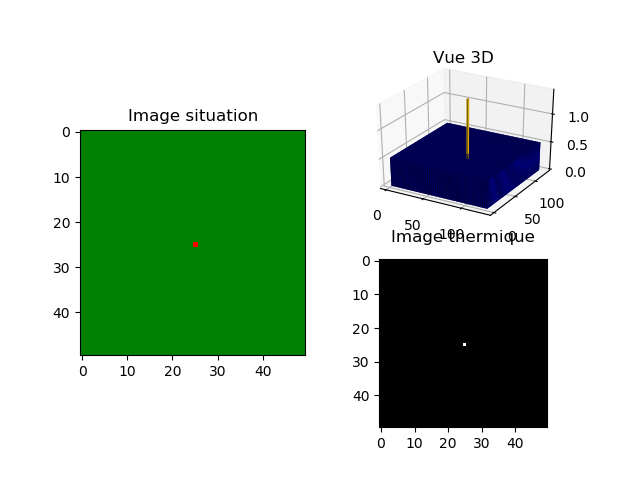
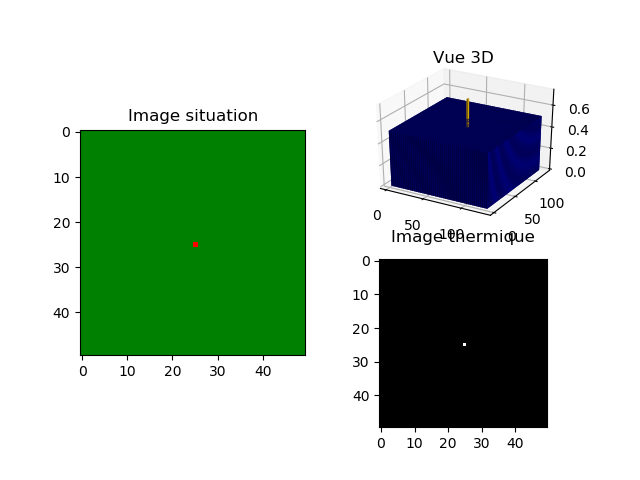
Started to implement topography

Changed region(s): [[0.5938, 0.1875, 0.9375, 0.375]]

diff --git a/radiation.py b/radiation.py
@@ -4,7 +4,7 @@ import matplotlib as plt
 from tools import *
 
 
-def sender(Map_hauteur, i, j, Map_energie, R, dteta, dh, nphoton, hauteur_cellule_combustible, debug=True, dprint=True):
+def sender(Map_hauteur, i, j, Map_energie, parameters, debug=True, dprint=True):
     """
    @input:  Matrix Map_hauteur | Matrice des hauteur de flamme
             Matrix Map_energie | Matrice des energies a émettre
@@ -41,21 +41,23 @@ def sender(Map_hauteur, i, j, Map_energie, R, dteta, dh, nphoton, hauteur_cellul
 
    @utilite: Fonction utilise par reception_matrix
    """
-    l = len(Map_hauteur)
+    l = parameters.Taille_grille
 
     # On récupère les infos sur la case qui va emettre
     energie = Map_hauteur[i, j]
-    nombre_subdivision_h = int(Map_hauteur[i, j]/dh)
+    nombre_subdivision_h = int(Map_hauteur[i, j]/parameters.dh)
 
     i = l-i-1  # On modife le i pour qu'il corresponde au schéma ci dessus
 
     # On calcule des valeurs pour notre ds et l'énergie élémentaire d'un photon
-    nombre_subdivision_teta = int((2*np.pi)/dteta)
-    photon_energie = energie/(nombre_subdivision_h*nombre_subdivision_teta*nphoton)
+    nombre_subdivision_teta = int((2*np.pi)/parameters.dteta)
+    photon_energie = energie/(nombre_subdivision_h*nombre_subdivision_teta*parameters.nphoton)
     result_matrix = np.zeros(shape=(l, l))
     if dprint:
         print("------------------------------")
         print("Nombre de surfaces elementaires considerees {}".format(str(nombre_subdivision_h*nombre_subdivision_teta)))
+
+
     for u in range(nombre_subdivision_h):
         if u == int(nombre_subdivision_h/4) and dprint:
             print("25% ..")
@@ -67,7 +69,7 @@ def sender(Map_hauteur, i, j, Map_energie, R, dteta, dh, nphoton, hauteur_cellul
             xx = []
             yy = []
         for v in range(nombre_subdivision_teta):
-            hauteur_envoi = dh*(u+1)
+            hauteur_envoi = parameters.topography[i][j]+dh*(u+1)  # TODO Crochets pas sur du tout
             tetads = dteta*v
             depart_x = (j*2*R + R) + R*np.cos(tetads)
             depart_y = (i*2*R + R) + R*np.sin(tetads)
@@ -78,7 +80,7 @@ def sender(Map_hauteur, i, j, Map_energie, R, dteta, dh, nphoton, hauteur_cellul
             uu = []
             vv = []
 
-            for counter in range(nphoton):
+            for counter in range(parameters.nphoton):
 
                 # On genere deux angles randoms/ rand_alpha doit etre genere de maniere particuliere
                 rand_phi = 2*np.arcsin(np.sqrt(random.random()))
@@ -162,7 +164,7 @@ def sender(Map_hauteur, i, j, Map_energie, R, dteta, dh, nphoton, hauteur_cellul
                     if hauteur_cylindre == 0:
                         iscombustible = True
                         hauteur_cylindre = hauteur_cellule_combustible
-                    intersec, distance = intersection(point_depart_photon, vecteur_photon, coordonne_cylindre, rayon_cylindre, hauteur_cylindre)
+                    intersec, distance = intersection(point_depart_photon, vecteur_photon, coordonne_cylindre, rayon_cylindre, hauteur_cylindre,parameters.topography)
                     if intersec:
                         distance_parcourue_jusque_intersection = distance
                         if not(iscombustible):
@@ -182,18 +184,11 @@ def sender(Map_hauteur, i, j, Map_energie, R, dteta, dh, nphoton, hauteur_cellul
  
     return result_matrix
 
-def create_mat(i,j,taille,w):
-    em_ij = np.zeros(shape=(taille, taille))
-    for u in range(taille):
-        for v in range(taille):
-            if taille//2+abs(i-u) >0 and  taille//2+abs(i-u) < taille and taille//2+abs(j-v) >0 and taille//2+abs(j-v) <taille and abs(i-u)<10 and abs(j-v) <10:
-                em_ij[u,v]=w[taille//2+abs(i-u),taille//2+abs(j-v)]
-    return em_ij
 
-def reception_matrix(para,rad, Map_hauteur, Map_energie,last,fires,radgrids):
+
+def reception_matrix(para,rad, Map_energie):
     """
    @input:  Object para | Objet contenant les parametres
-            Matrix Map_hauteur | Matrice des hauteurs de flamme
             Matrix Map_energie | Matrice des energies emises
 
    @output: Matrix Matrice des energies recues pour toutes les cellules
@@ -204,25 +199,13 @@ def reception_matrix(para,rad, Map_hauteur, Map_energie,last,fires,radgrids):
 
    """
     
-    l = len(Map_hauteur)
-    traite =[]
-    result_matrix = np.zeros(shape=(l, l))
+    result_matrix = np.zeros(shape=(para.Taille_grille, para.Taille_grille))
     for i in range(0, l):
         for j in range(0, l):
-            if Map_hauteur[i, j] != 0:
-                traite.append((i,j))
-                if (i,j) in fires:
-                    pass
-               
-                k = int((Map_hauteur[i, j]-para.Init_h)//para.Espacement_H)
-                mat = create_mat(i,j,l, ((rad[k][()])[(l//2, l//2)])*Map_energie[i][j])
-                radgrids[i,j] = mat
+                mat = rad[i][j]*Map_energie[i][j])
                 result_matrix = np.add(result_matrix,mat)
-    for (i,j) in fires:
-        if not((i,j) in traite):
-            result_matrix = np.subtract(result_matrix,radgrids[i,j])
-            fires.remove((i,j))
-    return result_matrix,traite,radgrids
+
+    return result_matrix
 
 
 def test_sender():

diff --git a/precalculus.py b/precalculus.py
@@ -1,0 +1,86 @@
+# -*- coding: utf-8 -*-
+"""
+Created on Mon Apr 15 19:23:23 2019
+
+"""
+import multiprocessing 
+from multiprocessing import Process, current_process, Queue, Array
+import numpy as np
+import random
+import datetime
+from tqdm import tqdm
+import sys
+import traceback
+from radiation import *
+from param import *
+
+
+def worker(part):
+    parameters= Param()
+    dteta =  parameters.dteta
+    dh = parameters.dh
+    nphoton = parameters.nphoton
+    R = parameters.D/2
+    h = parameters.hcom
+    taille =parameters.Taille_grille
+    premierehauteur = parameters.Init_h
+    espacement = parameters.Espacement_H
+
+    hauteur_flamme= round(premierehauteur+espacement*part,1)
+    print("Worker {} , started ".format(hauteur_flamme))
+
+    Map_energie = np.zeros(shape=(taille,taille))+1
+    Map_hauteur = np.zeros(shape=(taille, taille))
+    Map_hauteur[taille//2][taille//2] = hauteur_flamme
+
+    d= {}
+    if h !=0:
+        w=sender(Map_hauteur, taille//2, taille//2, Map_energie, R, dteta, dh, nphoton,h,debug=False,dprint=False)
+        for i in range(taille):
+            for j in range(taille):
+                em_ij = np.zeros(shape=(taille, taille))
+                for u in range(taille):
+                    for v in range(taille):
+                        if taille//2+abs(i-u) >0 and  taille//2+abs(i-u) < taille and taille//2+abs(j-v) >0 and taille//2+abs(j-v) <taille:
+                            em_ij[u,v]=w[taille//2+abs(i-u),taille//2+abs(j-v)]
+                d[(i,j)] = em_ij
+    else:
+        d={}
+    print("\n")
+    print("Worker {} , finished \n".format(hauteur_flamme)) 
+    print("\n")	
+    np.save('{}_50x50.npy'.format(part),d)         
+
+
+parameters= Param()
+if __name__ == '__main__':
+    print("-------------------------------")
+    print(" Précalcul des radiations ")
+    print("-------------------------------")
+    print("Données chargées depuis config.yml")
+    print("-------------------------------")
+    print("Heure début: {}".format(datetime.datetime.now()))
+    print("-------------------------------")
+    manager = multiprocessing.Manager()
+    jobs = []
+    y = datetime.datetime.now()
+
+    with multiprocessing.Pool(processes=parameters.nbr_cores) as p:
+        max_ = 50
+        with tqdm(total=max_) as pbar:
+            for i, _ in tqdm(enumerate(p.imap_unordered(worker, range(0, max_)))):
+                print("\n")
+                pbar.update()
+                print("\n")
+
+    print(datetime.datetime.now()-y)
+    print("Terminé")
+    input("Close2")
+    
+    
+
+
+
+
+
+    

diff --git a/simulator.py b/simulator.py
@@ -197,7 +197,7 @@ class Grille2D(object):
                             caseij.hascombustible = False
                             caseij.feu = False
 
-        self.radiation_enreception,self.fires,self.radgrids = reception_matrix(self.pa,self.rad, self.hauteurflamme_matrix, self.energie_matrix,self.radiation_enreception,self.fires,self.radgrids)
+        self.radiation_enreception = reception_matrix(self.pa,self.rad, self.hauteurflamme_matrix, self.energie_matrix)
         self.convection_enreception = reception_matrix_conv(self.longeurflamme_matrix, self.temperature_matrix)
   
         

diff --git a/tools.py b/tools.py
@@ -1,6 +1,6 @@
 import numpy as np
 
-def intersection(point_depart_photon, vecteur_photon, coordonne_cylindre, rayon_cylindre, hauteur_cylindre):
+def intersection(point_depart_photon, vecteur_photon, coordonne_cylindre, rayon_cylindre, hauteur_cylindre,topography):
     """
    @input:  (float,float,float) point_depart_photon | Point de depart du photon
             (float,float,float) vecteur_photon | Vecteur associe au photon

diff --git a/param.py b/param.py
@@ -21,7 +21,8 @@ class Param(object):
         self.dh = raw['precal'][6]['dh']
         self.nphoton= raw['precal'][7]['nphoton']
         self.nbr_cores= raw['precal'][8]['nbr_cores']
-
+        self.topography = None
+        self.species = None
         self.Vchar = raw['values'][0]['Vchar']
         self.Kf = raw['values'][1]['Kf']
         self.Xr = raw['values'][2]['Xr']
